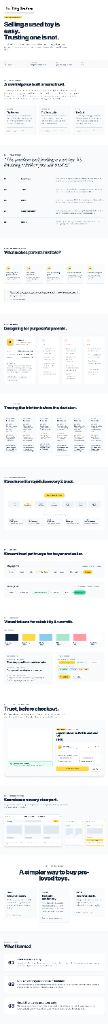
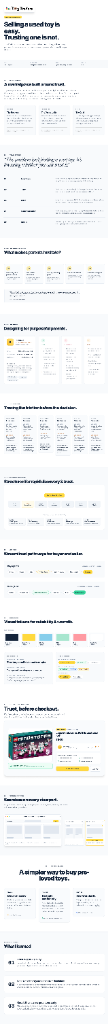
Replace Toy Traders case study with newly attached image as html toy traders.png

Changed region(s): [[0.0556, 0.6875, 0.5, 0.75]]

diff --git a/toy-traders.html b/toy-traders.html
@@ -39,7 +39,7 @@
         <!-- Responsive Case Study Section -->
         <section class="cs-slide-section">
             <div class="cs-slide-wrap">
-                <img src="assets/images/html toy traders.png?v=20260927_v7" alt="Toy Traders - Complete Case Study" class="cs-slide-img">
+                <img src="assets/images/html toy traders.png?v=20260927_v8" alt="Toy Traders - Complete Case Study" class="cs-slide-img">
             </div>
         </section>
 
